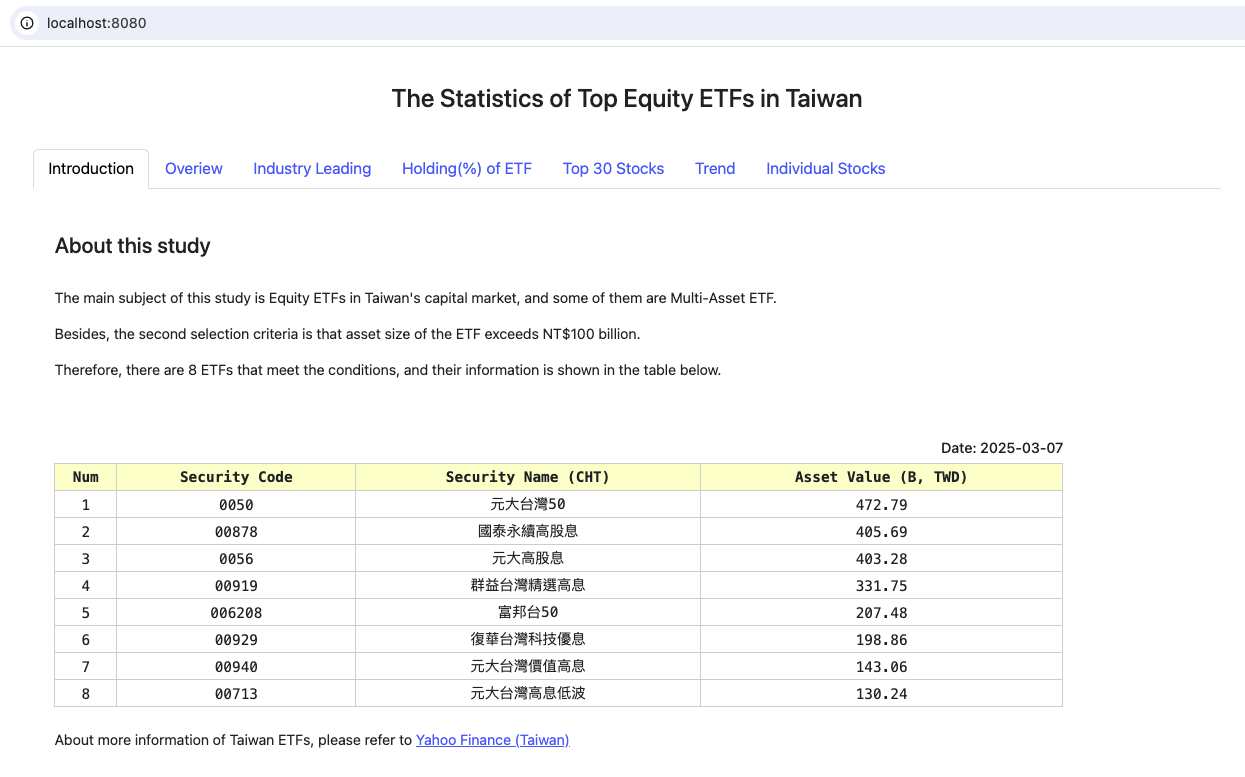
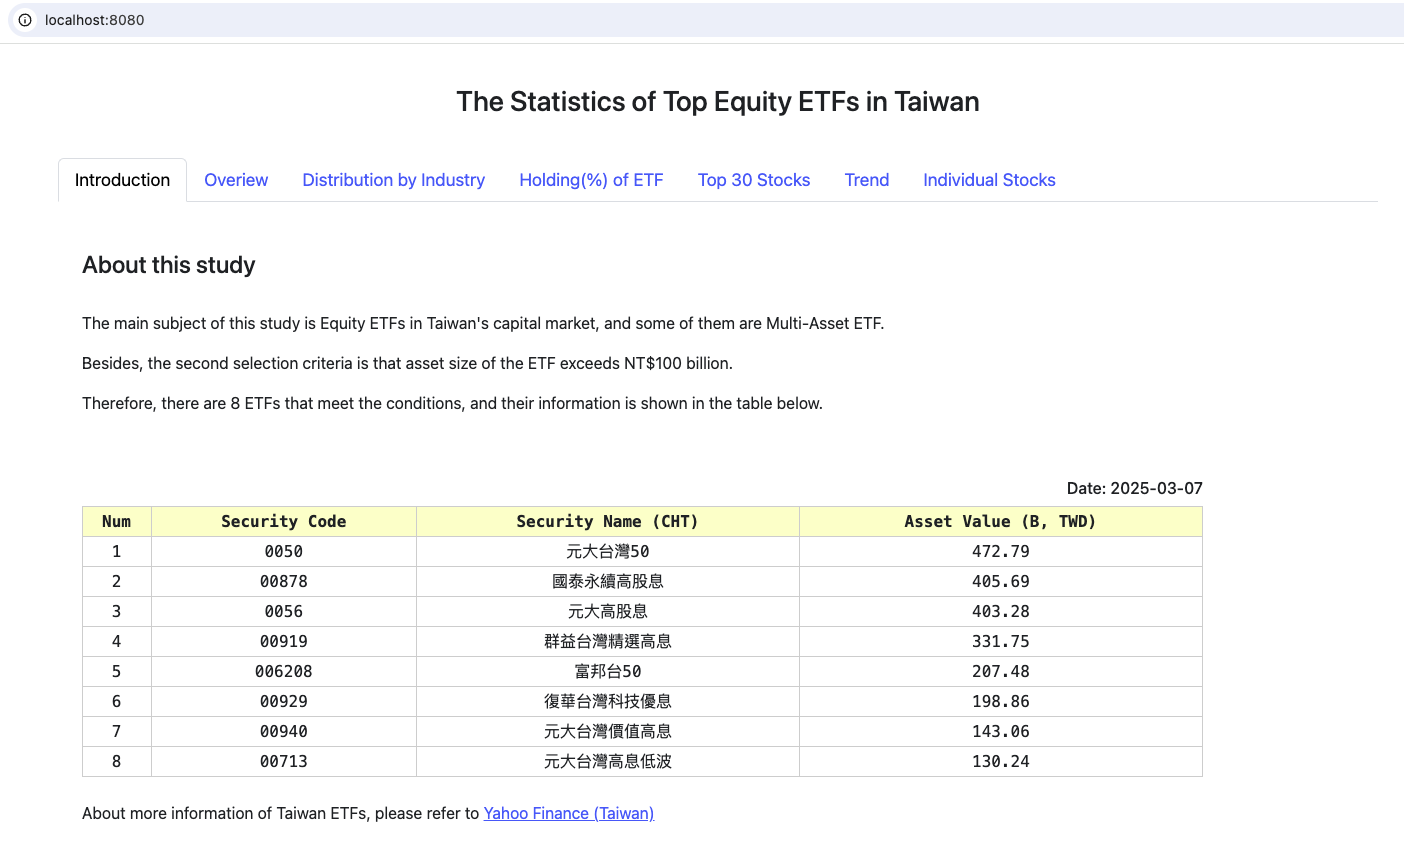
Update the label of tab

diff --git a/app_plotly/layout.py b/app_plotly/layout.py
@@ -744,7 +744,7 @@ def create_layout_container():
                                 children=tab_overview(),
                             ),
                             dbc.Tab(
-                                label="Industry Leading",
+                                label="Distribution by Industry",
                                 children=tab_industry_leading(),
                             ),
                             dbc.Tab(

diff --git a/app_plotly/callbacks.py b/app_plotly/callbacks.py
@@ -211,7 +211,7 @@ def init_callbacks(app):
         )
         fig.update_layout(
             title={
-                "text": f"Industry Leaders by Market Value -  {selected_date}",
+                "text": f"Distribution by Industry by Market Value of ETFs Holding -  {selected_date}",
                 "xanchor": "center",
                 "x": 0.5,
             }

diff --git a/README.md b/README.md
@@ -22,7 +22,7 @@ __1. The main components of this website__ <br>
 There are seven tabs for this interactive plot website.<br>
 (1)Introduction: just a brief description about this study.<br>
 (2)Overview: a dashboard with metrics, charts, and table.<br>
-(3)Industry Leading: industry leaders in a treemap chart.<br>
+(3)Distribution by Industry: industry leaders by market value of ETFs in a treemap chart.<br>
 (4)Holding(%) of ETF: a scatter plot with top holding-percentage stocks<br>
 (5)Top 30 Stocks: choose date and ETF code to view top 30 stocks of its portfolio.<br>
 (6)Trend: line charts for ETF historical prices and for stock holding amount and percentage of both selected ETF and stock code.<br>
@@ -66,7 +66,7 @@ __4. Results__ <br>
 ![avatar](./README_png/png_overview.png)
 <br><br>
 
-(3)Industry Leading: a treemap chart indicates leaders of their industries by market value of top ETFs holding.<br>
+(3)Distribution by Industry: a treemap chart indicates the distribution by industry based on market value of top ETFs holding. Please note that this is not a true ranking of industries. <br>
 
 ![avatar](./README_png/png_industry_leading.png)
 <br><br>
@@ -77,7 +77,7 @@ __4. Results__ <br>
 ![avatar](./README_png/png_holding_of_etf.png)
 <br><br>
 
-In addition, you can click on a stock in the chart legend, such as 2330, to temporarily not display it on the chart, making other stocks clearly visible.<br>
+In addition, you can click on a stock name in the chart legend, such as "台積電", to temporarily not display it on the chart, making other stocks clearly visible.<br>
 
 ![avatar](./README_png/png_holding_of_etf_no_2330.png)
 <br><br>
@@ -92,7 +92,7 @@ In addition, you can click on a stock in the chart legend, such as 2330, to temp
 ![avatar](./README_png/png_trend.png)
 <br><br>
 
-(7)Individual Stocks: show basic information and holding in ETFs after submmiting stock code in the box.<br>
+(7)Individual Stocks: show basic information and holding in ETFs after submitting stock code in the box.<br>
 
 ![avatar](./README_png/png_individual_stocks.png)
 <br><br>
